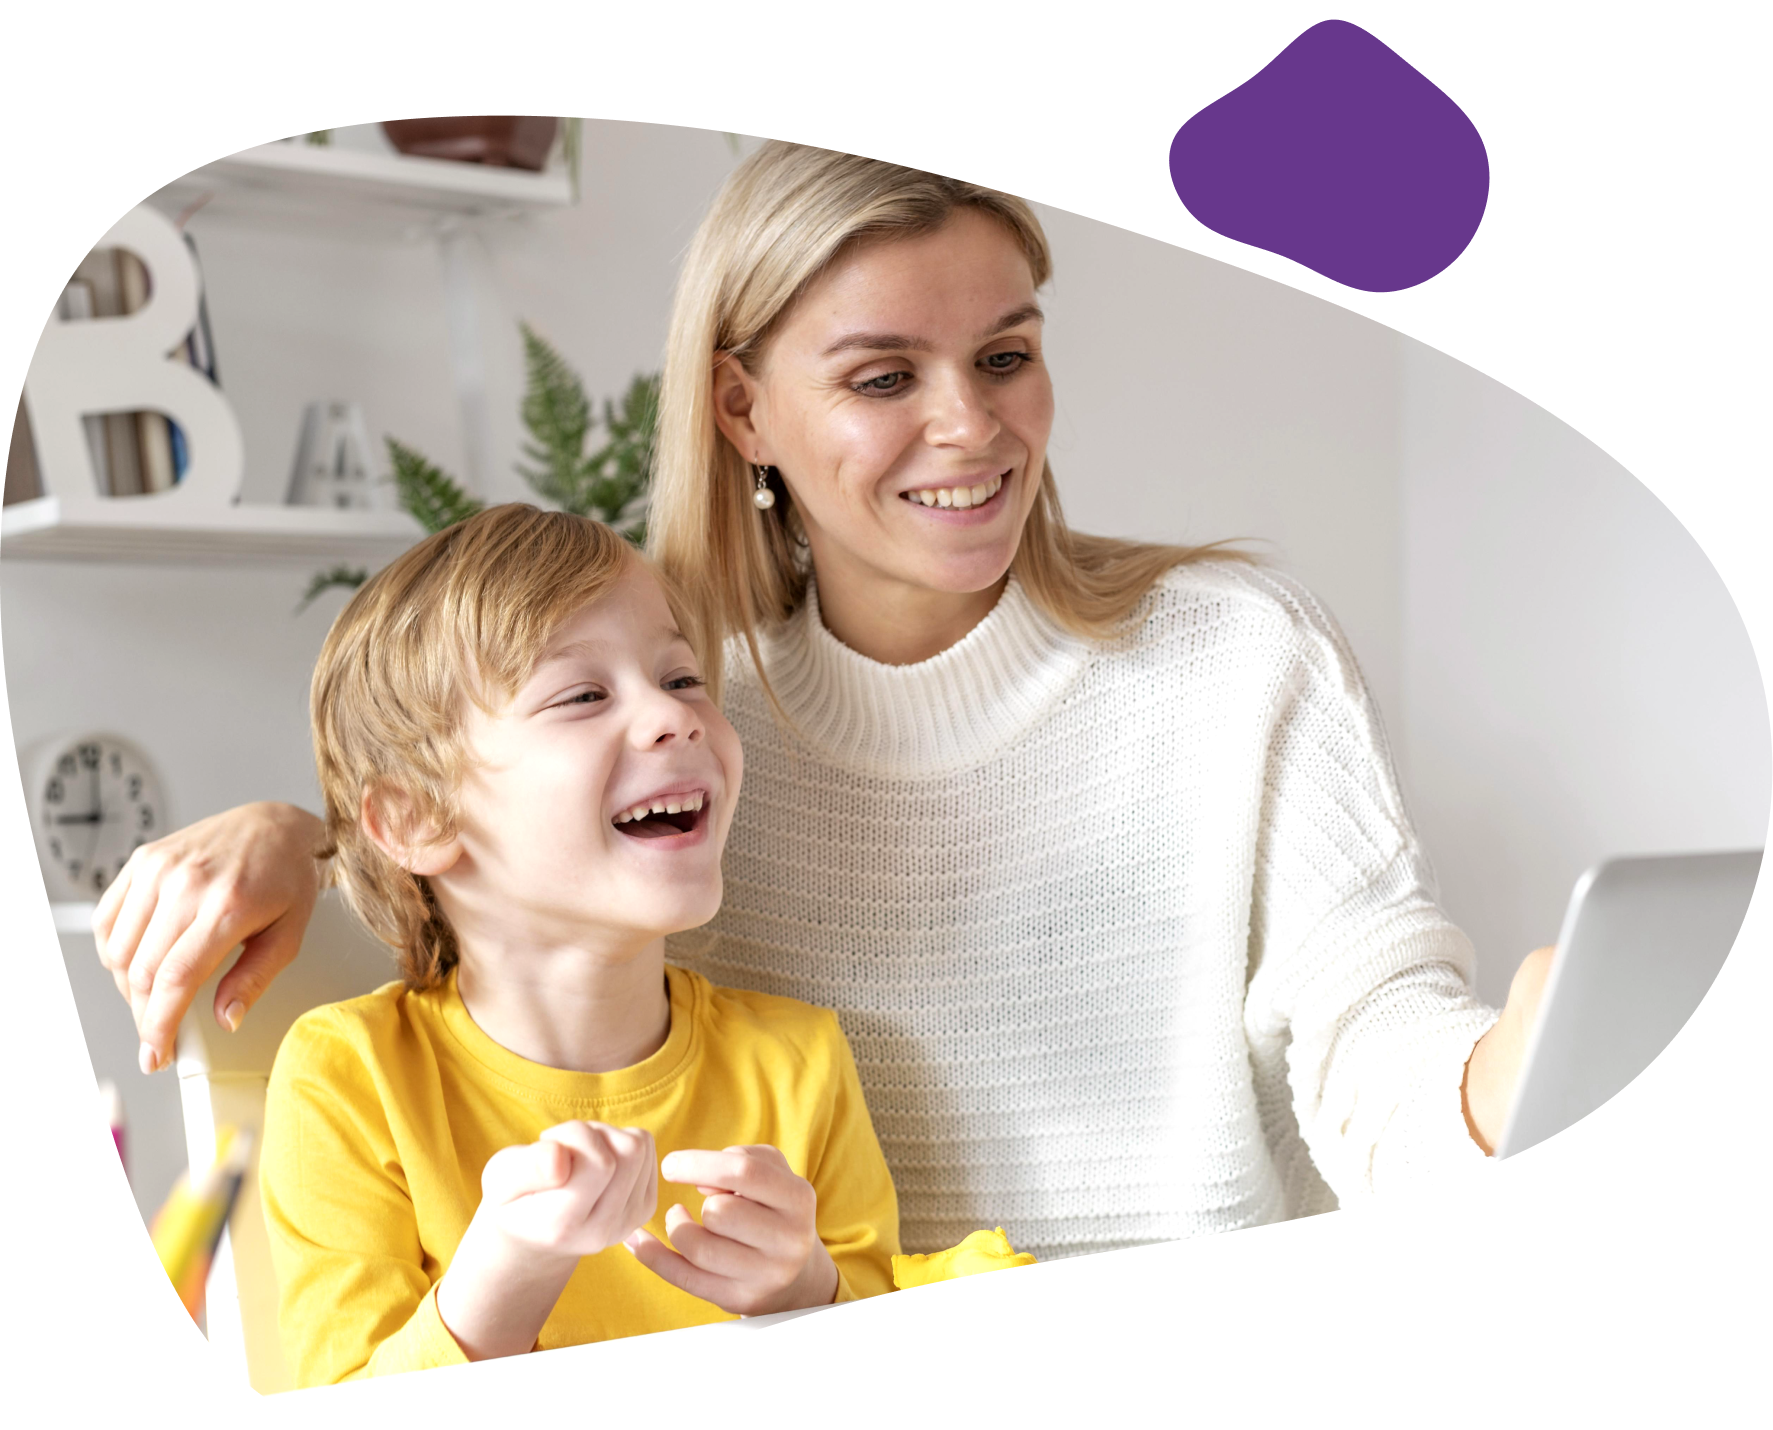
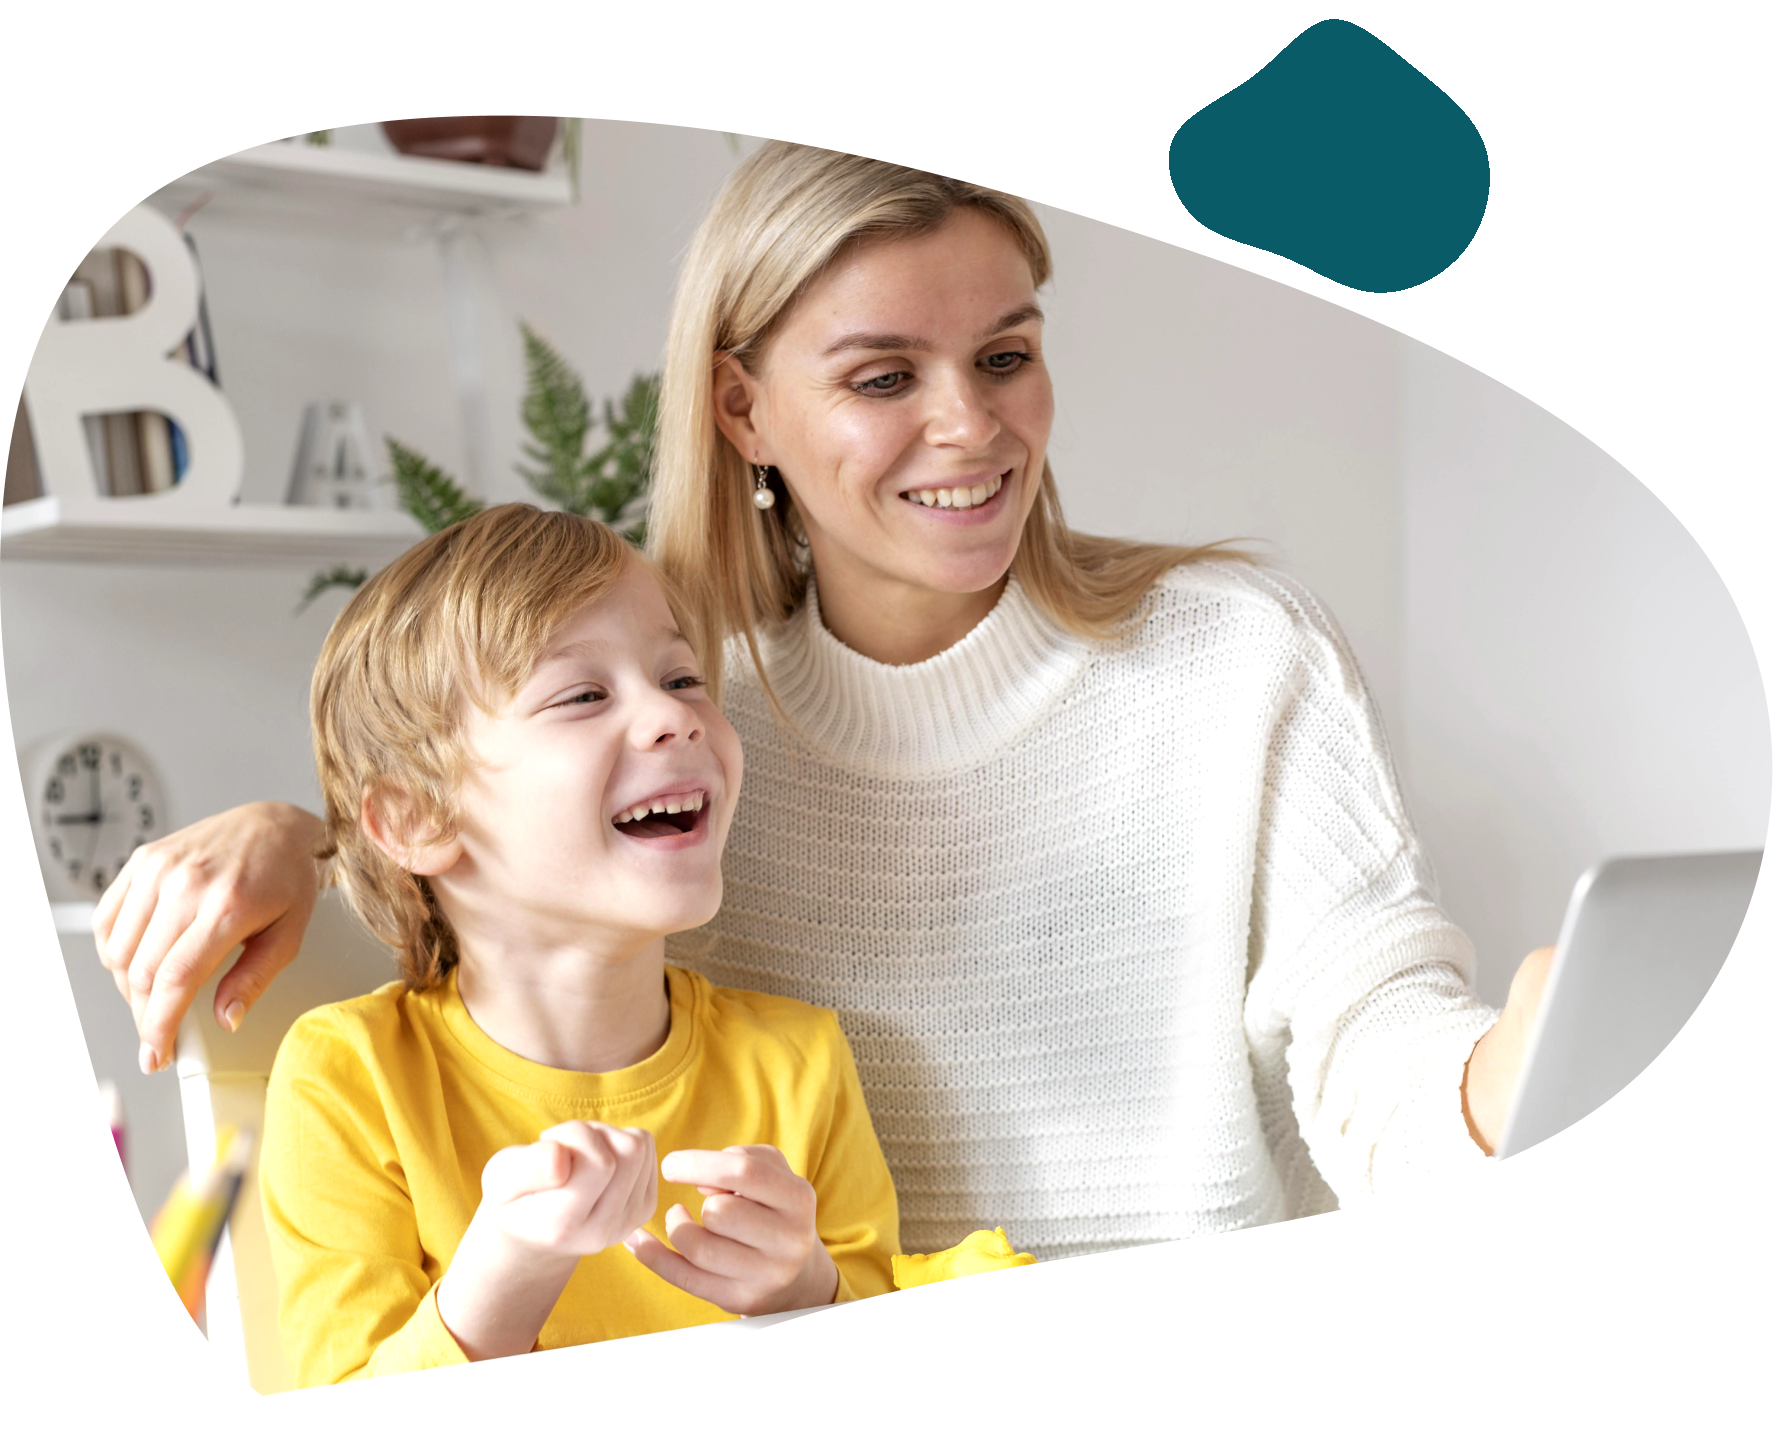
Modification page principale

Changed region(s): [[0.6514, 0.0, 0.8376, 0.2154]]

diff --git a/components/accueil/Abonnement.jsx b/components/accueil/Abonnement.jsx
@@ -1,53 +1,109 @@
-import styles from './abonnement.module.css'
-import { TiArrowRightThick } from 'react-icons/ti'
-
+import { Divider } from '@nextui-org/react'
+import { FontAwesomeIcon } from '@fortawesome/react-fontawesome'
+import { faCircleCheck, faCircleXmark } from '@fortawesome/free-regular-svg-icons'
 export default function Abonnement () {
   return (
-    <div className={styles.containerAbo}>
-      <h2 className='text-secondary-500 px-6 text-center'>Choisir son abonnement</h2>
+    <div>
+      <h2 className='text-primary px-6 text-center'>Choisir son abonnement</h2>
       <h3 className='text-gray-600 px-6 text-center normal-case'>Découvre nos offres adaptés pour tous les troubles DYS!</h3>
-      <div className={styles.containerCard}>
+      <div className='flex items-center justify-center gap-20 mt-20'>
 
-        <div className={styles.card}>
-          <h2 className='text-primary-500'>Gratuit</h2>
-          <p className='flex items-center gap-3'><TiArrowRightThick className='text-secondary text-2xl' />1 jeu par trouble
-          </p>
-          <p className='flex items-center gap-3'><TiArrowRightThick className='text-secondary text-2xl' />Personnalisation du personnage
-          </p>
-          <p className='flex items-center gap-3'><TiArrowRightThick className='text-secondary text-2xl' />Suivi de la progression
-          </p>
-          <div>
-            <h2 className='text-primary-500'>0€ <span className='text-gray-300 text-lg'>/mois</span></h2>
-            <button className={styles.buttonChoisir}>Choisir</button>
+        {/* Premium Subscription Card */}
+        <div className='bg-white drop-shadow-lg rounded-lg w-[350px]'>
+          <div className='px-8 pt-8'>
+            <h3 className='font-bold text-white bg-gray-500 w-fit px-2 py-1 rounded-md'>Gratuit</h3>
           </div>
+          <div className='px-8 flex items-end'>
+            <h1 className=''>0€</h1>
+            <p className='mb-4 ml-1'>/mois</p>
+          </div>
+          <p className='px-8 my-4 text-sm '>Pour découvrir Dyschool</p>
+          <Divider className='w-full bg-gray-500' />
+          <h4 className='px-8 mt-4 font-bold uppercase '>Options</h4>
+          <ul className='px-8 pt-4 pb-8 flex flex-col gap-3'>
+            <li className='flex'>
+              <FontAwesomeIcon icon={faCircleCheck} className='text-green-600 mr-2' size='xl' /> Accès à 1 jeu par troubles
+            </li>
+            <li className='flex'>
+              <FontAwesomeIcon icon={faCircleXmark} className='text-red-600 mr-2' size='xl' /> Suivi de la progression
+            </li>
+            <li className='flex'>
+              <FontAwesomeIcon icon={faCircleXmark} className='text-red-600 mr-2' size='xl' /> Options modifiables en fonction du trouble
+            </li>
+            <li className='flex'>
+              <FontAwesomeIcon icon={faCircleXmark} className='text-red-600 mr-2' size='xl' /> Personnalisation du personnage
+            </li>
+            <li className='flex'>
+              <FontAwesomeIcon icon={faCircleXmark} className='text-red-600 mr-2' size='xl' /> Personnalisation de la tenue
+            </li>
+          </ul>
         </div>
 
-        <div className={styles.card}>
-          <h2 className='text-primary-500'>Mensuel</h2>
-          <p className='flex items-center gap-3'><TiArrowRightThick className='text-secondary text-2xl' />+40 jeux disponibles
-          </p>
-          <p className='flex items-center gap-3'><TiArrowRightThick className='text-secondary text-2xl' />Personnalisation du personnage
-          </p>
-          <p className='flex items-center gap-3'><TiArrowRightThick className='text-secondary text-2xl' />Suivi de la progression
-          </p>
-          <div>
-            <h2 className='text-primary-500'>9€ <span className='text-gray-300 text-lg'>/mois</span></h2>
-            <button className={styles.buttonChoisir}>Choisir</button>
+        {/* Premium Subscription Card */}
+        <div className='bg-white drop-shadow-lg rounded-lg w-[350px]'>
+          <div className='px-8 pt-8'>
+            <h3 className='font-bold text-white bg-secondary w-fit px-2 py-1 rounded-md'>Premium</h3>
           </div>
+          <div className='px-8 flex items-end'>
+            <h1 className=''>9€</h1>
+            <p className='mb-4 ml-1'>/mois</p>
+          </div>
+          <p className='px-8 my-4 text-sm '>Pour une utilisation avancée</p>
+          <Divider className='w-full bg-secondary' />
+          <h4 className='px-8 mt-4 font-bold uppercase '>Options</h4>
+          <ul className='px-8 pt-4 pb-8 flex flex-col gap-3'>
+            <li className='flex'>
+              <FontAwesomeIcon icon={faCircleCheck} className='text-green-600 mr-2' size='xl' /> Accès à tous les jeux
+            </li>
+            <li className='flex'>
+              <FontAwesomeIcon icon={faCircleCheck} className='text-green-600 mr-2' size='xl' /> Suivi de la progression
+            </li>
+            <li className='flex'>
+              <FontAwesomeIcon icon={faCircleCheck} className='text-green-600 mr-2' size='xl' /> Options modifiables en fonction du trouble
+            </li>
+            <li className='flex'>
+              <FontAwesomeIcon icon={faCircleCheck} className='text-green-600 mr-2' size='xl' /> Personnalisation du personnage
+            </li>
+            <li className='flex'>
+              <FontAwesomeIcon icon={faCircleCheck} className='text-green-600 mr-2' size='xl' /> Personnalisation de la tenue
+            </li>
+          </ul>
         </div>
 
-        <div className={styles.card}>
-          <h2 className='text-primary-500'>Annuel</h2>
-          <p className='flex items-center gap-3'><TiArrowRightThick className='text-secondary text-2xl' />+40 jeux disponibles
-          </p>
-          <p className='flex items-center gap-3'><TiArrowRightThick className='text-secondary text-2xl' />Personnalisation du personnage
-          </p>
-          <p className='flex items-center gap-3'><TiArrowRightThick className='text-secondary text-2xl' />Suivi de la progression
-          </p>
+        {/* Max Subscription Card */}
+        <div className='bg-secondary drop-shadow-lg rounded-lg w-[350px]'>
           <div>
-            <h2 className='text-primary-500'>90€ <span className='text-gray-300 text-lg'>/an</span></h2>
-            <button className={styles.buttonChoisir}>Choisir</button>
+            <div className='absolute -top-5 left-1/2 transform -translate-x-1/2 bg-primary text-white px-3 py-2 rounded-md drop-shadow-md uppercase font-bold'>
+              2 mois offerts
+            </div>
           </div>
+          <div className='px-8 pt-8'>
+            <h3 className='font-bold text-white bg-secondary-400 w-fit px-2 py-1 rounded-md'>Max</h3>
+          </div>
+          <div className='px-8 flex items-end text-white'>
+            <h1 className=''>90€</h1>
+            <p className='mb-4 ml-1 text-white'>/an</p>
+          </div>
+          <p className='px-8 my-4 text-sm text-white'>Pour une utilisation avancée</p>
+          <Divider className='w-full bg-gray-200' />
+          <h4 className='px-8 mt-4 font-bold uppercase text-white'>Options</h4>
+          <ul className='px-8 pt-4 pb-8 flex flex-col gap-3'>
+            <li className='flex text-white'>
+              <FontAwesomeIcon icon={faCircleCheck} className='text-green-400 mr-2' size='xl' /> Accès à tous les jeux
+            </li>
+            <li className='flex text-white'>
+              <FontAwesomeIcon icon={faCircleCheck} className='text-green-400 mr-2' size='xl' /> Suivi de la progression
+            </li>
+            <li className='flex text-white'>
+              <FontAwesomeIcon icon={faCircleCheck} className='text-green-400 mr-2' size='xl' /> Options modifiables en fonction du trouble
+            </li>
+            <li className='flex text-white'>
+              <FontAwesomeIcon icon={faCircleCheck} className='text-green-400 mr-2' size='xl' /> Personnalisation du personnage
+            </li>
+            <li className='flex text-white'>
+              <FontAwesomeIcon icon={faCircleCheck} className='text-green-400 mr-2' size='xl' /> Personnalisation de la tenue
+            </li>
+          </ul>
         </div>
       </div>
     </div>

diff --git a/components/accueil/Apercu.jsx b/components/accueil/Apercu.jsx
@@ -1,34 +1,33 @@
 import Image from 'next/image'
-import styles from './apercu.module.css'
 import Game from '@/public/asset/home/game.png'
 import Doctor from '@/public/asset/home/doctor.png'
 import Idea from '@/public/asset/home/idea.png'
 
 export default function Apercu () {
   return (
-    <div className={styles.containerApercu}>
+    <div className='bg-secondary-50 bg-opacity-50 w-full'>
       <div className='text-center mt-10'>
         <p className='text-secondary-500'>Aperçu</p>
         <h2 className='text-primary'>Pourquoi choisir Dyschool ?</h2>
       </div>
-      <div className={styles.containerCard}>
+      <div className='flex flew-row items-center justify-center gap-10 my-14 p-5'>
 
-        <div className={styles.card}>
-          <Image src={Game} className={styles.imageCard} />
-          <h3 className={styles.h3Card}>Des jeux ludiques</h3>
-          <p className={styles.pCard}>Apprendre en s’amusant est le meilleur moyen de s’améliorer</p>
+        <div className='size-80 bg-white flex flex-col items-center justify-center text-center gap-5 rounded-2xl p-5 shadow-md'>
+          <Image src={Game} className='bg-secondary w-20 p-4 rounded-xl' />
+          <h3>Des jeux ludiques</h3>
+          <p className='text-sm text-gray-400'>Apprendre en s’amusant est le meilleur moyen de s’améliorer</p>
         </div>
 
-        <div className={styles.card}>
-          <Image src={Doctor} className={styles.imageCard} />
-          <h3 className={styles.h3Card}>Créé par des professionels</h3>
-          <p className={styles.pCard}>Des jeux conçus par des érgothérapeutes, orthophonistes et developpeurs</p>
+        <div className='size-80 bg-white flex flex-col items-center justify-center text-center gap-5 rounded-2xl p-5 shadow-md'>
+          <Image src={Doctor} className='bg-secondary w-20 p-4 rounded-xl' />
+          <h3>Créé par des professionels</h3>
+          <p className='text-sm text-gray-400'>Conçus par des érgothérapeutes, orthophonistes et developpeurs</p>
         </div>
 
-        <div className={styles.card}>
-          <Image src={Idea} className={styles.imageCard} />
-          <h3 className={styles.h3Card}>Tous concernés</h3>
-          <p className={styles.pCard}>Dyschool touche tous les troubles Dys, personne n'est mis de côté </p>
+        <div className='size-80 bg-white flex flex-col items-center justify-center text-center gap-5 rounded-2xl p-5 shadow-md'>
+          <Image src={Idea} className='bg-secondary w-20 p-4 rounded-xl' />
+          <h3>Tous concernés</h3>
+          <p className='text-sm text-gray-400'>Dyschool touche tous les troubles Dys, personne n'est mis de côté </p>
         </div>
 
       </div>

diff --git a/components/accueil/HomePage.jsx b/components/accueil/HomePage.jsx
@@ -1,8 +1,8 @@
 import Image from 'next/image'
 import Accueil from '@/public/asset/home/accuel.png'
 import Link from 'next/link'
-import { Chip } from '@nextui-org/chip'
 import styles from './homePage.module.css'
+import { Button } from '@nextui-org/button'
 
 export default function HomePage () { // Accepter les données en prop
   return (
@@ -14,12 +14,11 @@ export default function HomePage () { // Accepter les données en prop
           troubles dys de manière ludique
         </p>
         <div className='flex flex-col lg:flex-row gap-4'>
-          <Link href='/inscription'>  {/* Correction du lien */}
-            <Chip size='lg' color='secondary' variant='solid' className='px-4'>S'inscrire</Chip>
+          <Link href='/abonnements'>  {/* Correction du lien */}
+            <Button size='lg' color='secondary' variant='ghost' className='px-4'>En savoir plus</Button>
           </Link>
-          <Link href='#decouvrir' className='text-secondary'>  {/* Correction du lien */}
-            <Chip size='lg' color='secondary' variant='bordered' className='px-6 flex flex-row'>Découvrir Dyschool
-            </Chip>
+          <Link href='/inscription'>  {/* Correction du lien */}
+            <Button size='lg' color='secondary' variant='solid' className='px-4'>S'inscrire</Button>
           </Link>
         </div>
       </div>

diff --git a/components/accueil/Gaming.jsx b/components/accueil/Gaming.jsx
@@ -1,19 +1,18 @@
 import Link from 'next/link'
-import styles from './gamin.module.css'
-import { Chip } from '@nextui-org/chip'
+import { Button } from '@nextui-org/button'
 
 export default function Gaming () {
   return (
-    <div className={styles.containerGaming}>
-      <div className={styles.containerLeft}>
+    <div className='flex flex-row p-5 my-36 gap-20'>
+      <div className='flex flex-col gap-10'>
         <div>
-          <h3 className='text-primary'>Nos jeux</h3>
-          <h2 className={styles.h2Gaming}>Des jeux appropriés en fonction du trouble</h2>
+          <h3 className='text-secondary'>Nos jeux</h3>
+          <h2 className='text-primary max-w-2xl'>Des jeux appropriés en fonction du trouble</h2>
         </div>
         <p>Nos jeux sont adaptés en fonction du trouble dys de l’enfant.</p>
         <Link href='#' className='text-secondary'>
-          <Chip size='lg' color='secondary' variant='bordered' className='px-6 flex flex-row'>En savoir plus
-          </Chip>
+          <Button size='lg' color='secondary' variant='ghost' className='px-6 flex flex-row'>En savoir plus
+          </Button>
         </Link>
       </div>
       <div className='flex items-center justify-center p-4'>

diff --git a/components/accueil/Partenaires.jsx b/components/accueil/Partenaires.jsx
@@ -3,8 +3,8 @@ import Image from 'next/image'
 import Apedys from '@/public/asset/partenaires/apedys.png'
 export default function Partenaires () {
   return (
-    <div className='mb-20'>
-      <h2 className='text-secondary-500'>Nos partenaires</h2>
+    <div className='my-36'>
+      <h2 className='text-primary'>Nos partenaires</h2>
       <div className='container flex justify-center items-center mt-6'>
         <Image src={Apedys} width={150} height={150} objectFit='cover' />
       </div>
